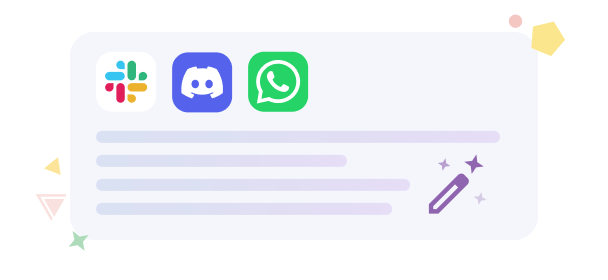
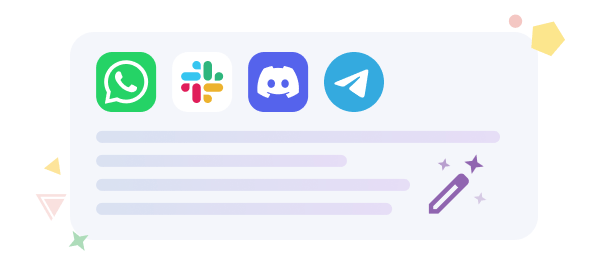
feat(wip): `Instant reply` for Telegram

Changed region(s): [[0.1562, 0.1714, 0.6562, 0.4286]]

diff --git a/src/features/shortcuts/utils/chatApp/platforms/telegram.ts b/src/features/shortcuts/utils/chatApp/platforms/telegram.ts
@@ -3,12 +3,29 @@ import ChatMessagesContext, {
 } from '@/features/shortcuts/utils/chatApp/ChatMessagesContext'
 import { findSelectorParent } from '@/utils/dataHelper/elementHelper'
 
-const telegramGetMessageData = (messageBox: HTMLElement) => {
+const telegramGetDataFromQuotedMessage = (
+  quotedMessage: HTMLElement | null,
+) => {
+  let user = '',
+    content = ''
+  if (quotedMessage) {
+    user =
+      quotedMessage.querySelector<HTMLElement>(
+        '.reply-title .peer-title[data-peer-id]',
+      )?.innerText || ''
+    content =
+      quotedMessage.querySelector<HTMLElement>('.reply-subtitle')?.innerText ||
+      ''
+  }
+  return { user, content }
+}
+
+const telegramGetMessageData = (messageBox: HTMLElement, username: string) => {
   if (messageBox) {
-    const username =
+    username =
       messageBox.querySelector<HTMLElement>(
-        '.bubble-content > .name[data-peer-id] > .peer-title[data-peer-id]',
-      )?.textContent || ''
+        '.bubble-content > .name[data-peer-id] .peer-title[data-peer-id]',
+      )?.textContent || username
 
     const messageData: IChatMessageData = {
       user: username,
@@ -16,24 +33,47 @@ const telegramGetMessageData = (messageBox: HTMLElement) => {
       content: '',
     }
 
-    messageBox
-      .querySelector<HTMLElement>('.message')
-      ?.childNodes.forEach((node) => {
-        if (node.nodeType === node.TEXT_NODE) {
-          messageData.content = node.textContent || ''
-        } else if ((node as HTMLElement).matches('.time')) {
-          messageData.datetime =
-            (node as HTMLElement)
-              .querySelector('.time-inner')
-              ?.getAttribute('title') || ''
-        } else if ((node as HTMLElement).matches('.reply')) {
-          messageData.extraLabel = `${username} is replying to ${
-            (node as HTMLElement).querySelector<HTMLElement>(
-              '.reply-title .peer-title[data-peer-id]',
-            )?.innerText || ''
-          }`
-        }
-      })
+    if (messageBox.matches('.sticker')) {
+      messageData.extraLabel = `${username} sent a sticker`
+      messageData.datetime =
+        messageBox
+          .querySelector<HTMLElement>('.message .time-inner')
+          ?.getAttribute('title') || ''
+    } else {
+      messageBox
+        .querySelector<HTMLElement>('.message')
+        ?.childNodes.forEach((node) => {
+          // content
+          if (node.nodeType === node.TEXT_NODE) {
+            messageData.content = node.textContent || ''
+          }
+          // datetime
+          else if ((node as HTMLElement).matches('.time')) {
+            messageData.datetime =
+              (node as HTMLElement)
+                .querySelector('.time-inner')
+                ?.getAttribute('title') || ''
+          }
+          // replying to quoted message
+          else if ((node as HTMLElement).matches('.reply')) {
+            const quotedMessage = telegramGetDataFromQuotedMessage(
+              node as HTMLElement,
+            )
+            messageData.extraLabel = `${username} is replying to ${quotedMessage.user}'s message: ${quotedMessage.content}`
+          }
+          // document
+          else if ((node as HTMLElement).matches('.document-container')) {
+            messageData.extraLabel = `${username} sent a document: ${
+              (node as HTMLElement).querySelector('.document-name')
+                ?.textContent || ''
+            }`
+            messageData.datetime =
+              (node as HTMLElement)
+                .querySelector('.time-inner')
+                ?.getAttribute('title') || ''
+          }
+        })
+    }
 
     return messageData
   }
@@ -60,17 +100,22 @@ const telegramGetChatMessagesFromNodeList = (
 
   const messages: IChatMessageData[] = []
   for (const messageBox of messageBoxList) {
-    const messageData = telegramGetMessageData(messageBox)
+    const messageData = telegramGetMessageData(
+      messageBox,
+      messageBox.matches('.is-out') ? configs.username : chattingWith,
+    )
 
     if (messageData) {
-      messageData.user ||= chattingWith
       messages.push(messageData)
     }
   }
   return messages
 }
 
-export const telegramGetChatMessages = (inputAssistantButton: HTMLElement) => {
+export const telegramGetChatMessages = async (
+  inputAssistantButton: HTMLElement,
+) => {
+  debugger
   const serverName =
     document.querySelector<HTMLElement>(
       '.chat-info .content > .bottom > .info .peer-title[data-peer-id]',
@@ -80,19 +125,62 @@ export const telegramGetChatMessages = (inputAssistantButton: HTMLElement) => {
       '.chat-info .content > .top > .user-title > .peer-title[data-peer-id]',
     )?.innerText || ''
 
+  let temporarySpecialStyle: HTMLStyleElement | null = null
+  if (
+    !document.querySelector<HTMLElement>(
+      '.settings-container.profile-container.active .sidebar-content .profile-content.is-me',
+    )
+  ) {
+    temporarySpecialStyle = document.createElement('style')
+    temporarySpecialStyle.innerHTML = `.tabs-container .sidebar-left .tabs-tab:not(.settings-container.profile-container){display:flex!important;transform:none!important;} .sidebar-header>.sidebar-header__btn-container button>.btn-menu{display:none!important;} .settings-container.profile-container{display:none!important;}`
+    document.getElementsByTagName('head')[0].appendChild(temporarySpecialStyle)
+    const menuButton = document.querySelector<HTMLElement>(
+      '.sidebar-header > .sidebar-header__btn-container button:not(.menu-open)',
+    )
+    if (menuButton) {
+      await new Promise<void>((resolve) => {
+        new MutationObserver((mutations, observer) => {
+          menuButton
+            ?.querySelectorAll<HTMLElement>(
+              '.btn-menu.was-open > .btn-menu-item',
+            )
+            .item(3)
+            ?.click()
+          observer.disconnect()
+          resolve()
+        }).observe(menuButton, {
+          childList: true,
+        })
+        menuButton?.click()
+      })
+    }
+  }
+
   const configs = {
     serverName,
     chatroomName,
-    username: '', // Telegram can't get the username
+    username:
+      document.querySelector<HTMLElement>(
+        '.settings-container.profile-container.active .sidebar-content .profile-content.is-me .profile-name .peer-title[data-peer-id]',
+      )?.textContent || '',
+  }
+
+  if (temporarySpecialStyle) {
+    document
+      .querySelector<HTMLElement>(
+        '.settings-container.profile-container.active .sidebar-header button.sidebar-close-button',
+      )
+      ?.click()
+    temporarySpecialStyle?.remove()
   }
 
   const chatMessagesPanel = document.querySelector(
-    '.bubbles .bubbles-date-group',
+    '.bubbles .scrollable > .bubbles-inner',
   )
 
   const chatMessagesNodeList = Array.from(
     chatMessagesPanel?.querySelectorAll<HTMLElement>(
-      '.bubbles-group .bubble[data-peer-id]',
+      '.bubbles-date-group .bubbles-group .bubble[data-peer-id]',
     ) || [],
   )
 
@@ -108,7 +196,7 @@ export const telegramGetChatMessages = (inputAssistantButton: HTMLElement) => {
       2,
     )
     const quotedMention = findSelectorParent(
-      '.is-helper-active .chat-input-main .reply-wrapper',
+      '.is-helper-active .chat-input-main .reply-wrapper .reply',
       chatTextArea,
       3,
     )
@@ -116,7 +204,12 @@ export const telegramGetChatMessages = (inputAssistantButton: HTMLElement) => {
 
     if (chatTextArea) {
       if (quotedMention) {
-        //
+        const quotedMessage = telegramGetDataFromQuotedMessage(quotedMention)
+        replyMessageBoxIndex = chatMessages.findIndex(
+          (message) =>
+            message.user === quotedMessage.user &&
+            message.content === quotedMessage.content,
+        )
       } else {
         replyMessageBoxIndex = chatMessages.findLastIndex(
           (message) => message.user !== configs.username,

diff --git a/src/features/shortcuts/utils/chatApp/platforms/whatsApp.ts b/src/features/shortcuts/utils/chatApp/platforms/whatsApp.ts
@@ -11,8 +11,8 @@ const getDatetimeAndUserRegExp = /^\[(.*?)\] (.*?): $/
 const whatsAppGetDataFromQuotedMessage = (
   quotedMessage: HTMLElement | null,
 ) => {
-  let user = ''
-  let content = ''
+  let user = '',
+    content = ''
   if (quotedMessage) {
     // if has testid, it means the reply target is not `me`
     // 24.04.10 update: the testid is not reliable
